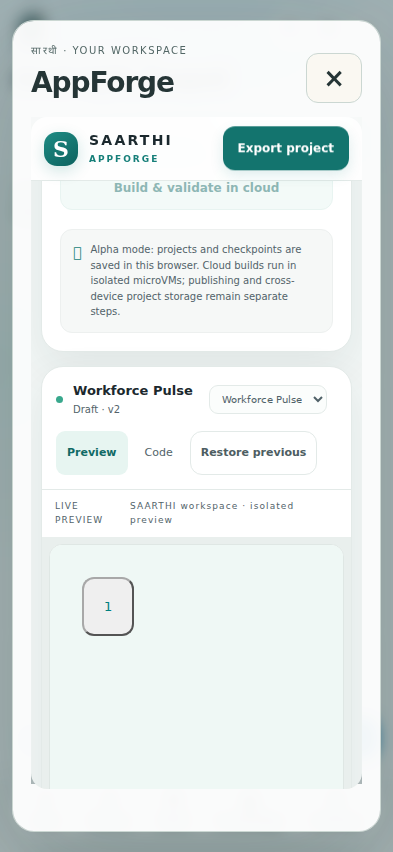
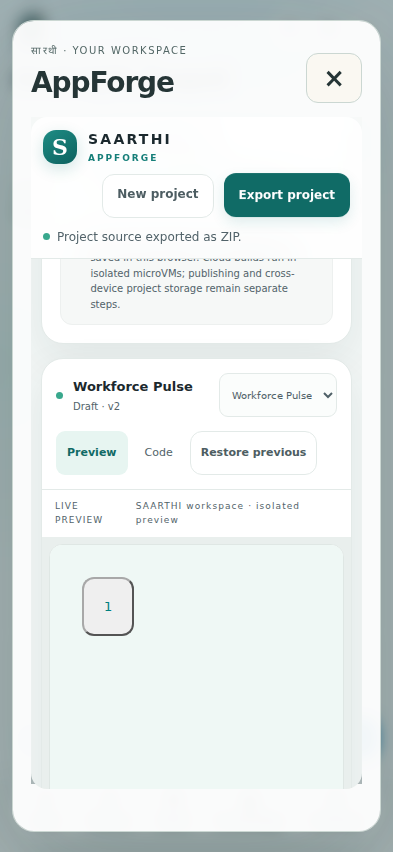
Preserve AppForge archives and mobile project controls

diff --git a/appforge/app.css b/appforge/app.css
@@ -11,3 +11,5 @@ button:focus-visible,a:focus-visible,input:focus-visible,textarea:focus-visible,
 
 html.dark-theme{color-scheme:dark;--bg:#152324;--panel:#213735;--ink:#eaf6f0;--muted:#bed1ca;--line:#4d6962;--mint:#294f48;--teal-dark:#b1f6e6}html.dark-theme :is(.topbar,.left-panel,.right-panel,.btn-quiet,.chip,.project-picker,.text-input,.file-picker,.code-wrap,.empty-state,.notice,.file-tools input){background:var(--panel);color:var(--ink);border-color:var(--line)}html.dark-theme :is(.field-label,.section-label,.helper,.notice,.preview-meta,.project-footer){color:var(--muted)}html.dark-theme .preview-wrap{background:var(--bg)}html.dark-theme :is(.brand small,.empty-icon){color:#9be9d7}.reduce-motion *{animation:none!important;transition:none!important;scroll-behavior:auto!important}
 html.dark-theme .eyebrow{color:#9be9d7}html.dark-theme #prompt{background:#172b28;color:var(--ink)}
+.project-title{width:100%}.project-title>div{min-width:0;flex:1}.project-title strong{max-width:100%}.project-picker{max-width:45%;min-width:80px;flex-shrink:1}.project-picker,.file-picker,.text-input{min-height:44px}.preview-meta{gap:8px}.preview-meta>span{min-width:0;overflow-wrap:anywhere}
+@media(max-width:720px){.topbar{height:auto;min-height:64px;flex-wrap:wrap;gap:8px;padding:12px}.top-actions{flex:1 1 220px;justify-content:flex-end;flex-wrap:wrap}.top-actions #newProject{display:inline-flex}.top-actions .status{display:flex;flex-basis:100%;order:3;margin:0;overflow-wrap:anywhere}.status>span{min-width:0}}

diff --git a/appforge/app.js b/appforge/app.js
@@ -98,8 +98,8 @@
         const local = byId.get(remote.id);
         const localTime = Date.parse(local?.updatedAt || "") || 0;
         const remoteTime = Date.parse(remote.updatedAt || "") || 0;
-        if (local && localTime > remoteTime) {
-          newerLocal.push(local);
+        if (local && localTime >= remoteTime) {
+          if (localTime > remoteTime) newerLocal.push(local);
           continue;
         }
         byId.set(remote.id, {
@@ -116,8 +116,7 @@
         });
       }
       projects = Array.from(byId.values())
-        .sort((a, b) => (Date.parse(b.updatedAt || "") || 0) - (Date.parse(a.updatedAt || "") || 0))
-        .slice(0, 30);
+        .sort((a, b) => (Date.parse(b.updatedAt || "") || 0) - (Date.parse(a.updatedAt || "") || 0));
       activeId = localStorage.getItem(ACTIVE_KEY);
       active = projects.find(project => project.id === activeId) || projects[0] || active;
       if (!projects.some(project => project.id === active.id)) projects.unshift(active);
@@ -179,7 +178,7 @@
     const picker = $("projectPicker");
     if (picker) {
       picker.innerHTML = "";
-      projects.slice(0, 30).forEach(project => {
+      projects.forEach(project => {
         const option = document.createElement("option");
         option.value = project.id;
         option.textContent = project.name || "Untitled project";

diff --git a/docs/RELEASE-HARDENING.md b/docs/RELEASE-HARDENING.md
@@ -9,7 +9,8 @@
 - Shared deployment providers, cloud stores or MCP configuration now fail closed unless private deployment access is configured. Conversation writes check ownership before appending messages; malformed conversation IDs cannot enter PostgREST filters. This remains a private deployment gate, not multi-user account authentication.
 - Request bodies are limited before parsing, including chunked requests without Content-Length. Rate identity storage is bounded; forwarded identity headers are trusted only with explicit proxy configuration. CORS wraps early error responses and permits the actual DELETE method.
 - Package builds require an explicit nonempty build script, including safe rejection of malformed script containers; an absent script can no longer pass via `--if-present`.
-- AppForge now follows light/dark/system preferences, improves text contrast and focus indicators, invalidates stale build artifacts on edits, and includes private access headers on capability/project reads. Internal dialog navigation retains the original focus target.
+- AppForge cloud merge and project navigation preserve browser projects beyond 30 and retain equal-version local checkpoints. AppForge now follows light/dark/system preferences, improves text contrast and focus indicators, invalidates stale build artifacts on edits, and includes private access headers on capability/project reads. Internal dialog navigation retains the original focus target.
+- Mobile AppForge retains visible New project and operation feedback controls; nested workspace overflow is checked at Android widths.
 - Settings exposes the browser's install prompt when available and explains the unsupported state. Installation is not simulated.
 
 ## Local verification
